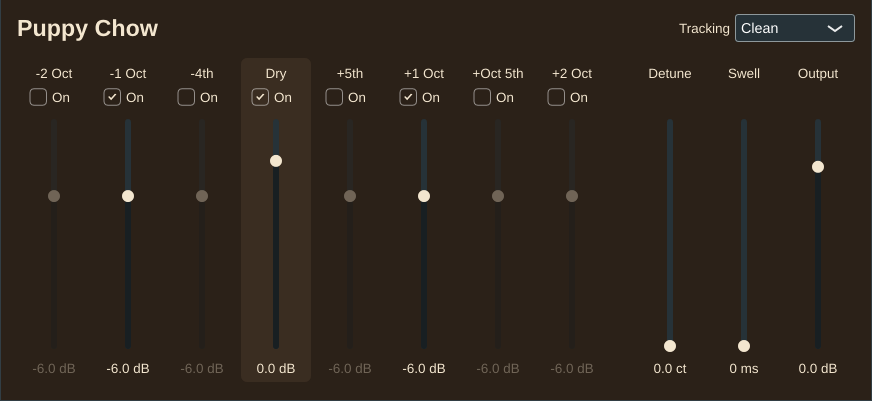
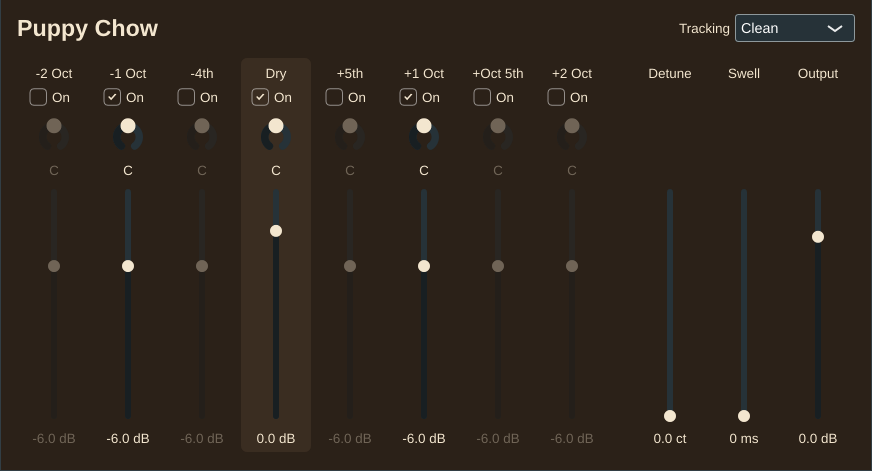
Add a pan control to every channel, including Dry
Each channel gets a <id>_pan parameter (-100 left to +100 right,
default centre). Panning uses a constant-power law scaled so the centre
is unity on both sides, so the default sound is unchanged. The voices
are now mixed into separate left and right buses (each with its own
rumble filter); on a stereo input the Dry pan acts as a balance
control. Mono outputs ignore pan.

Claude-Session: https://claude.ai/code/session_015qRFGs7qz5fDxQKsgHj1JL

diff --git a/src/PluginProcessor.cpp b/src/PluginProcessor.cpp
@@ -15,6 +15,7 @@ PuppyChowProcessor::PuppyChowProcessor()
     {
         levelDb[i] = parameters.getRawParameterValue (channels[i].id);
         channelOn[i] = parameters.getRawParameterValue (juce::String (channels[i].id) + "_on");
+        channelPan[i] = parameters.getRawParameterValue (juce::String (channels[i].id) + "_pan");
     }
 
     detuneCents = parameters.getRawParameterValue ("detune");
@@ -54,6 +55,25 @@ juce::AudioProcessorValueTreeState::ParameterLayout PuppyChowProcessor::createPa
 
         layout.add (std::make_unique<juce::AudioParameterBool> (
             juce::ParameterID { juce::String (ch.id) + "_on", 1 }, juce::String (ch.name) + " On", ch.defaultOn));
+
+        // Pan: -100 is hard left, 0 centre, +100 hard right.
+        layout.add (std::make_unique<juce::AudioParameterFloat> (
+            juce::ParameterID { juce::String (ch.id) + "_pan", 1 }, juce::String (ch.name) + " Pan",
+            juce::NormalisableRange<float> (-100.0f, 100.0f, 1.0f), 0.0f,
+            juce::AudioParameterFloatAttributes()
+                .withStringFromValueFunction ([] (float v, int)
+                {
+                    const int amount = (int) std::lround (std::abs (v));
+                    return amount == 0 ? juce::String ("C") : juce::String (v < 0 ? "L" : "R") + juce::String (amount);
+                })
+                .withValueFromStringFunction ([] (const juce::String& text)
+                {
+                    const auto t = text.trim().toUpperCase();
+                    if (t.isEmpty() || t == "C") return 0.0f;
+                    if (t.startsWithChar ('L')) return -std::abs (t.substring (1).getFloatValue());
+                    if (t.startsWithChar ('R')) return std::abs (t.substring (1).getFloatValue());
+                    return t.getFloatValue();
+                })));
     }
 
     layout.add (std::make_unique<juce::AudioParameterFloat> (
@@ -86,6 +106,19 @@ float PuppyChowProcessor::channelTargetGain (int channel) const noexcept
     return (! on || dbValue <= puppychow::minLevelDb + 0.05f) ? 0.0f : juce::Decibels::decibelsToGain (dbValue);
 }
 
+// Constant-power pan law, scaled so the centre position is unchanged (unity
+// on both sides). Moving a channel to one side raises that side by 3 dB and
+// fades the other out, so its loudness stays even as it moves.
+std::pair<float, float> PuppyChowProcessor::channelPanGains (int channel, bool stereoOut) const noexcept
+{
+    if (! stereoOut)
+        return { 1.0f, 1.0f };
+
+    const float pan = juce::jlimit (-1.0f, 1.0f, channelPan[(size_t) channel]->load() / 100.0f);
+    const float angle = (pan + 1.0f) * juce::MathConstants<float>::pi * 0.25f;
+    return { std::cos (angle) * juce::MathConstants<float>::sqrt2, std::sin (angle) * juce::MathConstants<float>::sqrt2 };
+}
+
 void PuppyChowProcessor::prepareToPlay (double sampleRate, int)
 {
     sampleRateHz = sampleRate;
@@ -95,10 +128,15 @@ void PuppyChowProcessor::prepareToPlay (double sampleRate, int)
     engines[2].prepare (sampleRate, OctaveEngine::Tuning::clean());
     activeEngine = -1;
 
-    for (size_t i = 0; i < gains.size(); ++i)
+    const bool stereoOut = getTotalNumOutputChannels() > 1;
+    for (int i = 0; i < numChannels; ++i)
     {
-        gains[i].reset (sampleRate, 0.02); // 20 ms smoothing avoids zipper noise
-        gains[i].setCurrentAndTargetValue (channelTargetGain ((int) i));
+        const float level = channelTargetGain (i);
+        const auto [panL, panR] = channelPanGains (i, stereoOut);
+        gainsL[(size_t) i].reset (sampleRate, 0.02); // 20 ms smoothing avoids zipper noise
+        gainsR[(size_t) i].reset (sampleRate, 0.02);
+        gainsL[(size_t) i].setCurrentAndTargetValue (level * panL);
+        gainsR[(size_t) i].setCurrentAndTargetValue (level * panR);
     }
 
     outputGain.reset (sampleRate, 0.02);
@@ -114,7 +152,7 @@ void PuppyChowProcessor::prepareToPlay (double sampleRate, int)
     // Gentle 20 Hz high-pass on the voices so two octaves below a low note
     // can't push speakers around with inaudible rumble.
     wetHighpassCoeff = (float) std::exp (-juce::MathConstants<double>::twoPi * 20.0 / sampleRate);
-    wetHighpassState = 0.0f;
+    wetHighpassStateL = wetHighpassStateR = 0.0f;
 }
 
 bool PuppyChowProcessor::isBusesLayoutSupported (const BusesLayout& layouts) const
@@ -157,13 +195,19 @@ void PuppyChowProcessor::processBlock (juce::AudioBuffer<float>& buffer, juce::M
     auto& engine = engines[(size_t) activeEngine];
 
     // Levels, and which voices the engine can skip because nobody hears them.
+    const bool stereoOut = numOut > 1;
     bool active[OctaveEngine::numVoices] = {};
     for (int i = 0; i < numChannels; ++i)
     {
-        auto& g = gains[(size_t) i];
-        g.setTargetValue (channelTargetGain (i));
+        const float level = channelTargetGain (i);
+        const auto [panL, panR] = channelPanGains (i, stereoOut);
+        auto& gL = gainsL[(size_t) i];
+        auto& gR = gainsR[(size_t) i];
+        gL.setTargetValue (level * panL);
+        gR.setTargetValue (level * panR);
         if (channels[i].engineVoice >= 0)
-            active[channels[i].engineVoice] = g.getTargetValue() > 0.0f || g.isSmoothing();
+            active[channels[i].engineVoice] = gL.getTargetValue() > 0.0f || gR.getTargetValue() > 0.0f
+                                              || gL.isSmoothing() || gR.isSmoothing();
     }
 
     outputGain.setTargetValue (juce::Decibels::decibelsToGain (outputDb->load()));
@@ -215,24 +259,32 @@ void PuppyChowProcessor::processBlock (juce::AudioBuffer<float>& buffer, juce::M
 
         for (int i = 0; i < n; ++i)
         {
-            // Mix the voices. The octave-up voices blend in their detuned copies.
+            // Mix the voices into left and right. The octave-up voices blend in
+            // their detuned copies.
             const float det = detuneMix.getNextValue();
-            float wet = 0.0f;
-            float dry = 1.0f;
+            float wetL = 0.0f, wetR = 0.0f;
+            float dryL = 1.0f, dryR = 1.0f;
 
             for (int c = 0; c < numChannels; ++c)
             {
-                const float g = gains[(size_t) c].getNextValue();
+                const float gL = gainsL[(size_t) c].getNextValue();
+                const float gR = gainsR[(size_t) c].getNextValue();
                 const int v = channels[c].engineVoice;
 
                 if (v < 0)
-                    dry = g;
-                else if (v == OctaveEngine::up1)
-                    wet += g * (voices[v][i] * (1.0f - 0.3f * det) + voices[OctaveEngine::up1Detuned][i] * 0.7f * det);
+                {
+                    dryL = gL; dryR = gR;
+                    continue;
+                }
+
+                float x = voices[v][i];
+                if (v == OctaveEngine::up1)
+                    x = x * (1.0f - 0.3f * det) + voices[OctaveEngine::up1Detuned][i] * 0.7f * det;
                 else if (v == OctaveEngine::up2)
-                    wet += g * (voices[v][i] * (1.0f - 0.3f * det) + voices[OctaveEngine::up2Detuned][i] * 0.7f * det);
-                else
-                    wet += g * voices[v][i];
+                    x = x * (1.0f - 0.3f * det) + voices[OctaveEngine::up2Detuned][i] * 0.7f * det;
+
+                wetL += gL * x;
+                wetR += gR * x;
             }
 
             // Swell: watch the input level. When it jumps (a new note is picked),
@@ -249,17 +301,23 @@ void PuppyChowProcessor::processBlock (juce::AudioBuffer<float>& buffer, juce::M
             }
             swellRamp = swellOn ? juce::jmin (1.0f, swellRamp + swellStep) : 1.0f;
             swellGain = swellRamp + gainSmooth * (swellGain - swellRamp);
-            wet *= swellGain;
+            wetL *= swellGain;
+            wetR *= swellGain;
 
             // One-pole high-pass: subtract a slow-moving average.
-            wetHighpassState = wet + wetHighpassCoeff * (wetHighpassState - wet);
-            wet -= wetHighpassState;
+            wetHighpassStateL = wetL + wetHighpassCoeff * (wetHighpassStateL - wetL);
+            wetHighpassStateR = wetR + wetHighpassCoeff * (wetHighpassStateR - wetR);
+            wetL -= wetHighpassStateL;
+            wetR -= wetHighpassStateR;
 
+            // The dry guitar keeps its own left/right (if the input is stereo) and
+            // the Dry pan acts like a balance control on it.
             const float out = outputGain.getNextValue();
             for (int ch = 0; ch < numOut; ++ch)
             {
                 float* dst = buffer.getWritePointer (ch, start);
-                dst[i] = softLimit ((dst[i] * dry + wet) * out);
+                const bool right = ch == 1;
+                dst[i] = softLimit ((dst[i] * (right ? dryR : dryL) + (right ? wetR : wetL)) * out);
             }
         }
     }

diff --git a/src/PluginEditor.cpp b/src/PluginEditor.cpp
@@ -29,8 +29,24 @@ PuppyChowEditor::PuppyChowEditor (PuppyChowProcessor& p)
         addAndMakeVisible (strip.onButton);
         strip.buttonAttachment = std::make_unique<ButtonAttachment> (params, juce::String (ch.id) + "_on", strip.onButton);
 
-        // Dim a strip's slider while its channel is switched off.
-        strip.onButton.onStateChange = [&strip] { strip.slider.setAlpha (strip.onButton.getToggleState() ? 1.0f : 0.35f); };
+        // Small pan knob. Double-click returns it to the centre.
+        strip.pan.setSliderStyle (juce::Slider::RotaryHorizontalVerticalDrag);
+        strip.pan.setTextBoxStyle (juce::Slider::TextBoxBelow, false, stripWidth - 12, 16);
+        strip.pan.setColour (juce::Slider::textBoxOutlineColourId, juce::Colours::transparentBlack);
+        strip.pan.setColour (juce::Slider::textBoxTextColourId, cream);
+        strip.pan.setColour (juce::Slider::thumbColourId, cream);
+        strip.pan.setPopupDisplayEnabled (false, false, nullptr);
+        addAndMakeVisible (strip.pan);
+        strip.panAttachment = std::make_unique<SliderAttachment> (params, juce::String (ch.id) + "_pan", strip.pan);
+        strip.pan.setDoubleClickReturnValue (true, 0.0);
+
+        // Dim a strip's controls while its channel is switched off.
+        strip.onButton.onStateChange = [&strip]
+        {
+            const float alpha = strip.onButton.getToggleState() ? 1.0f : 0.35f;
+            strip.slider.setAlpha (alpha);
+            strip.pan.setAlpha (alpha);
+        };
         strip.onButton.onStateChange();
     }
 
@@ -47,7 +63,7 @@ PuppyChowEditor::PuppyChowEditor (PuppyChowProcessor& p)
     addAndMakeVisible (trackingBox);
     trackingAttachment = std::make_unique<ComboBoxAttachment> (params, "tracking", trackingBox);
 
-    setSize (2 * margin + stripWidth * (puppychow::numChannels + 3) + gapBeforeExtras, 400);
+    setSize (2 * margin + stripWidth * (puppychow::numChannels + 3) + gapBeforeExtras, 470);
 }
 
 void PuppyChowEditor::setUpSlider (Strip& strip, const juce::String& title, const juce::String& paramId, const juce::String& suffix)
@@ -95,8 +111,12 @@ void PuppyChowEditor::resized()
         column = column.reduced (4, 6);
         strip.title.setBounds (column.removeFromTop (22));
         auto buttonRow = column.removeFromTop (26);
+        auto panRow = column.removeFromTop (70);
         if (hasButton)
+        {
             strip.onButton.setBounds (buttonRow.withSizeKeepingCentre (56, 24));
+            strip.pan.setBounds (panRow.withSizeKeepingCentre (stripWidth - 8, 66));
+        }
         strip.slider.setBounds (column);
     };
 

diff --git a/src/PluginProcessor.h b/src/PluginProcessor.h
@@ -9,7 +9,7 @@
 // Puppy Chow: a polyphonic octave pedal.
 // The guitar passes straight through (Dry) and the engine adds up to seven
 // extra voices: octaves down and up, plus a fourth down, a fifth up and an
-// octave-plus-fifth up. Each channel has a level and an on/off switch.
+// octave-plus-fifth up. Each channel has a level, a pan and an on/off switch.
 class PuppyChowProcessor final : public juce::AudioProcessor
 {
 public:
@@ -46,17 +46,20 @@ public:
 
 private:
     float channelTargetGain (int channel) const noexcept;
+    std::pair<float, float> channelPanGains (int channel, bool stereoOut) const noexcept;
 
     juce::AudioProcessorValueTreeState parameters;
 
     std::array<std::atomic<float>*, puppychow::numChannels> levelDb {};
     std::array<std::atomic<float>*, puppychow::numChannels> channelOn {};
+    std::array<std::atomic<float>*, puppychow::numChannels> channelPan {};
     std::atomic<float>* detuneCents = nullptr;
     std::atomic<float>* swellMs = nullptr;
     std::atomic<float>* trackingMode = nullptr;
     std::atomic<float>* outputDb = nullptr;
 
-    std::array<juce::SmoothedValue<float>, puppychow::numChannels> gains;
+    // Per channel: level x pan, for the left and right outputs.
+    std::array<juce::SmoothedValue<float>, puppychow::numChannels> gainsL, gainsR;
     juce::SmoothedValue<float> detuneMix;
     juce::SmoothedValue<float> outputGain;
 
@@ -71,7 +74,7 @@ private:
     float fastEnv = 0.0f, slowEnv = 0.0f, swellRamp = 1.0f, swellGain = 1.0f;
     int samplesSinceOnset = 0;
 
-    float wetHighpassState = 0.0f, wetHighpassCoeff = 0.0f;
+    float wetHighpassStateL = 0.0f, wetHighpassStateR = 0.0f, wetHighpassCoeff = 0.0f;
 
     JUCE_DECLARE_NON_COPYABLE_WITH_LEAK_DETECTOR (PuppyChowProcessor)
 };

diff --git a/src/Channels.h b/src/Channels.h
@@ -8,7 +8,7 @@ namespace puppychow
 {
     struct Channel
     {
-        const char* id;        // level parameter id; the on/off parameter is id + "_on"
+        const char* id;        // level parameter id; on/off is id + "_on", pan is id + "_pan"
         const char* name;      // name shown to the host
         const char* title;     // short title on the interface
         int engineVoice;

diff --git a/src/PluginEditor.h b/src/PluginEditor.h
@@ -24,6 +24,8 @@ private:
         juce::Label title;
         juce::ToggleButton onButton;
         juce::Slider slider;
+        juce::Slider pan;
+        std::unique_ptr<SliderAttachment> panAttachment;
         std::unique_ptr<SliderAttachment> sliderAttachment;
         std::unique_ptr<ButtonAttachment> buttonAttachment;
     };

diff --git a/README.md b/README.md
@@ -9,9 +9,12 @@ It's meant to sit in front of your amp sim and add clean, chord-friendly octaves
 
 ![Placeholder interface](docs/interface.png)
 
-- **Eight channels**, each with an on/off switch and a level slider: two octaves down, one
+- **Eight channels**, each with an on/off switch, a pan knob and a level slider: two octaves down, one
   octave down, a fourth down, Dry, a fifth up, one octave up, an octave plus a fifth up, and
   two octaves up.
+- **Pan** places each channel left or right (constant-power, so it stays equally loud as it
+  moves; double-click a knob to centre it). Everything starts centred, which sounds exactly like
+  mono. On a stereo input the Dry pan works as a balance control.
 - **Detune** adds slightly sharp copies of the two octave-up voices for a 12-string shimmer.
 - **Swell** fades the voices in after each picked note, like a volume swell or a bowed string.
 - **Output** sets the overall level. A gentle limiter rounds off peaks above about -2 dBFS so
